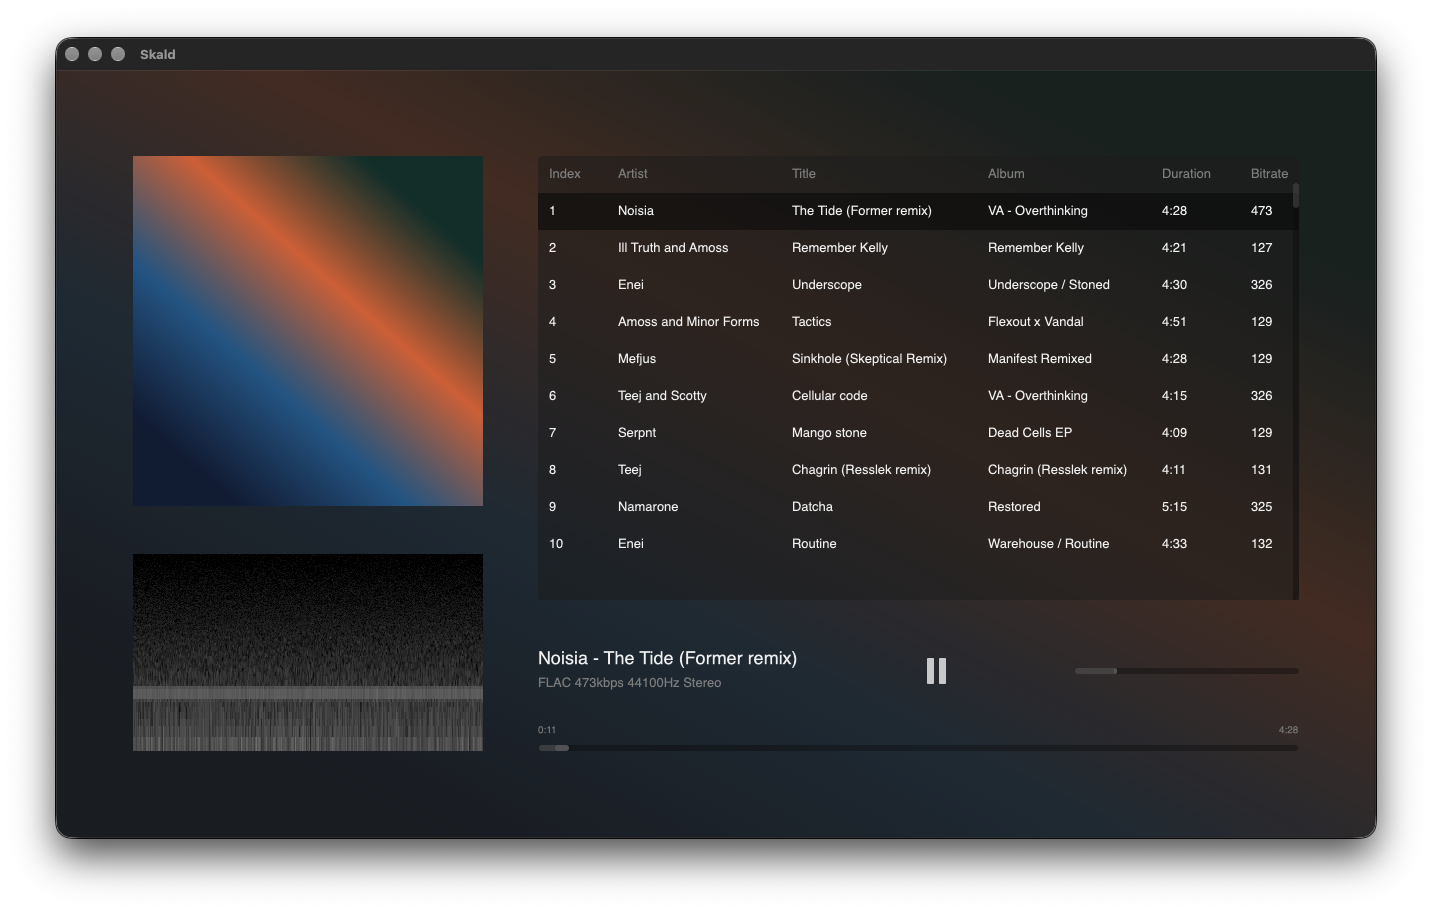
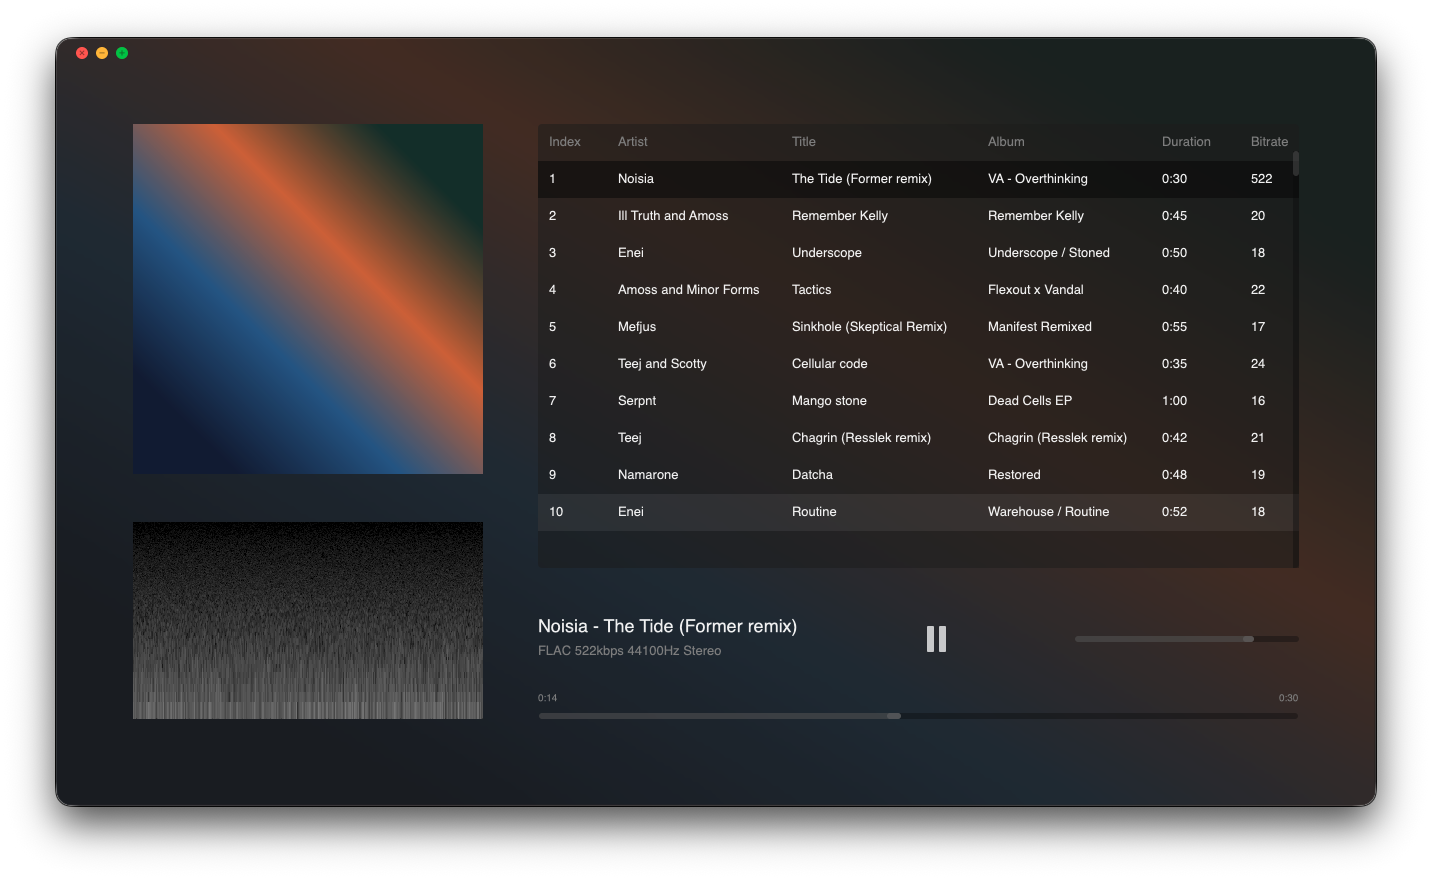
feat(ui): replace the native titlebar with custom window controls

diff --git a/src/ui/titlebar.rs b/src/ui/titlebar.rs
@@ -1,0 +1,133 @@
+//! Custom window chrome: three traffic-light buttons and the drag strip that
+//! replaces the native titlebar.
+//!
+//! The strip occupies the top 30px of the window, inside the design frame's
+//! 86px gutter. Everything except the buttons starts a window drag, exactly
+//! like the OS titlebar used to.
+
+use crate::app::SkaldApp;
+use gpui::prelude::*;
+use gpui::{AnyElement, Context, CursorStyle, MouseButton, Window, div, px, rgb, rgba};
+
+pub const TITLEBAR_HEIGHT: f32 = 30.0;
+const BUTTON_SIZE: f32 = 12.0;
+const BUTTON_LEFT: f32 = 20.0;
+const BUTTON_GAP: f32 = 8.0;
+
+const CLOSE: u32 = 0xFF5F57;
+const MINIMIZE: u32 = 0xFEBC2E;
+const MAXIMIZE: u32 = 0x28C840;
+const GLYPH: u32 = 0x00000066;
+
+impl SkaldApp {
+    pub(crate) fn render_titlebar(&self, cx: &mut Context<Self>) -> AnyElement {
+        div()
+            .absolute()
+            .top_0()
+            .left_0()
+            .w_full()
+            .h(px(TITLEBAR_HEIGHT))
+            .flex()
+            .items_center()
+            .pl(px(BUTTON_LEFT))
+            .gap(px(BUTTON_GAP))
+            .cursor(CursorStyle::OpenHand)
+            .on_mouse_down(
+                MouseButton::Left,
+                cx.listener(|_, _: &gpui::MouseDownEvent, window, cx| {
+                    cx.stop_propagation();
+                    begin_window_move(window);
+                }),
+            )
+            .child(Self::chrome_button(
+                "chrome-close",
+                CLOSE,
+                "×",
+                cx,
+                |this, window, cx| this.close_window(window, cx),
+            ))
+            .child(Self::chrome_button(
+                "chrome-minimize",
+                MINIMIZE,
+                "−",
+                cx,
+                |_, window, _| window.minimize_window(),
+            ))
+            .child(Self::chrome_button(
+                "chrome-maximize",
+                MAXIMIZE,
+                "+",
+                cx,
+                |_, window, _| window.zoom_window(),
+            ))
+            .into_any_element()
+    }
+
+    fn chrome_button(
+        id: &'static str,
+        color: u32,
+        glyph: &'static str,
+        cx: &mut Context<Self>,
+        action: impl Fn(&mut Self, &mut Window, &mut Context<Self>) + 'static,
+    ) -> AnyElement {
+        div()
+            .id(id)
+            .relative()
+            .w(px(BUTTON_SIZE))
+            .h(px(BUTTON_SIZE))
+            .flex_shrink_0()
+            .rounded_full()
+            .bg(rgb(color))
+            .cursor(CursorStyle::PointingHand)
+            .flex()
+            .items_center()
+            .justify_center()
+            .text_size(px(10.))
+            .line_height(px(BUTTON_SIZE))
+            .text_color(rgba(GLYPH))
+            .hover(|style| style.opacity(0.72))
+            .on_mouse_down(
+                MouseButton::Left,
+                cx.listener(|_, _, _, cx| cx.stop_propagation()),
+            )
+            .on_click(cx.listener(move |this, _, window, cx| {
+                cx.stop_propagation();
+                action(this, window, cx);
+            }))
+            .child(glyph)
+            .into_any_element()
+    }
+}
+
+/// Hands the drag to the platform. macOS needs the original mouse-down event;
+/// Linux compositors take over from the current pointer press.
+fn begin_window_move(window: &Window) {
+    #[cfg(target_os = "macos")]
+    {
+        macos::begin_drag();
+        let _ = window;
+    }
+
+    #[cfg(not(target_os = "macos"))]
+    window.start_window_move();
+}
+
+#[cfg(target_os = "macos")]
+mod macos {
+    use objc2::MainThreadMarker;
+    use objc2_app_kit::NSApplication;
+
+    pub fn begin_drag() {
+        let Some(mtm) = MainThreadMarker::new() else {
+            return;
+        };
+        let app = NSApplication::sharedApplication(mtm);
+        let Some(window) = app.keyWindow() else {
+            return;
+        };
+        let Some(event) = app.currentEvent() else {
+            return;
+        };
+        window.performWindowDragWithEvent(&event);
+    }
+}

diff --git a/src/main.rs b/src/main.rs
@@ -16,7 +16,7 @@ use crate::settings::Settings;
 use crate::ui::theme::{FRAME_HEIGHT, FRAME_WIDTH};
 use gpui::{
     App, Application, Bounds, Menu, MenuItem, SystemMenuType, TitlebarOptions, WindowBounds,
-    WindowOptions, point, prelude::*, px, size,
+    WindowDecorations, WindowOptions, point, prelude::*, px, size,
 };
 
 fn main() {
@@ -36,17 +36,24 @@ fn main() {
         cx.on_action(|_: &Quit, cx: &mut App| cx.quit());
 
         let bounds = restored_bounds(cx);
+        #[cfg(target_os = "linux")]
+        let window_decorations = Some(WindowDecorations::Client);
+        #[cfg(not(target_os = "linux"))]
+        let window_decorations: Option<WindowDecorations> = None;
 
         let window = cx
             .open_window(
                 WindowOptions {
                     window_bounds: Some(WindowBounds::Windowed(bounds)),
                     window_min_size: Some(size(px(FRAME_WIDTH), px(FRAME_HEIGHT))),
+                    // The OS titlebar is hidden; `titlebar.rs` draws the three
+                    // buttons and the drag strip in the top 30px of the frame.
                     titlebar: Some(TitlebarOptions {
                         title: Some("Skald".into()),
-                        appears_transparent: false,
-                        traffic_light_position: None,
+                        appears_transparent: true,
+                        traffic_light_position: Some(point(px(-100.), px(14.))),
                     }),
+                    window_decorations,
                     ..Default::default()
                 },
                 |window, cx| {

diff --git a/src/app.rs b/src/app.rs
@@ -626,6 +626,15 @@ impl SkaldApp {
         self.persist_state();
     }
 
+    /// The custom close button: flush exactly like the native close did, then
+    /// remove the window.
+    pub(crate) fn close_window(&mut self, window: &mut Window, cx: &mut Context<Self>) {
+        self.remember_window(window.bounds());
+        self.shutdown();
+        window.remove_window();
+        cx.quit();
+    }
+
     // -------------------------------------------------------------------- tick
 
     fn start_ticker(&mut self, cx: &mut Context<Self>) {
@@ -777,7 +786,7 @@ impl Render for SkaldApp {
             });
         }
 
-        root
+        root.child(self.render_titlebar(cx))
     }
 }
 

diff --git a/src/ui/mod.rs b/src/ui/mod.rs
@@ -7,4 +7,5 @@ pub mod now_playing;
 pub mod shell;
 pub mod sidebar;
 pub mod theme;
+pub mod titlebar;
 pub mod track_list;

diff --git a/wiki/pages/2026-10-28-skald-player.md b/wiki/pages/2026-10-28-skald-player.md
@@ -31,8 +31,8 @@ A new single-crate binary, scaffolded to match `manti-by/sk`:
 - `src/settings/` — `settings.json` and `state.json` schemas, first-run defaults,
   clamping and atomic temp-file-plus-rename writes.
 - `src/ui/` — the shell, sidebar, track list, now-playing row, EQ and About
-  overlays, the add-card empty state, and `theme.rs` as the single source of all
-  design-frame geometry and both palettes.
+  overlays, the add-card empty state, the custom titlebar, and `theme.rs` as the
+  single source of all design-frame geometry and both palettes.
 - `Makefile`, `.github/workflows/{ci,release}.yml`, `.github/scripts/*.sh`,
   `install.sh`, `README.md`, `AGENTS.md`, `wiki/docs/` — the repository and
   release plumbing.
@@ -69,6 +69,11 @@ on macOS, while seeking is covered by the decoder tests.
 - **Fixed 1320×768 minimum.** The design frame is the smallest useful window;
   larger windows stretch the main column while the sidebar and modal sizes stay
   fixed.
+- **Custom window chrome.** The OS titlebar is hidden with
+  `appears_transparent` and the native traffic lights are moved offscreen;
+  `titlebar.rs` draws close/minimize/maximize and owns the top 30px drag strip.
+  macOS hands the original mouse-down event to `performWindowDragWithEvent`;
+  Linux uses `start_window_move` and client-side decorations.
 - **Bundled static Inter instances.** GPUI needs fonts it can load on both
   platforms without relying on system font discovery.
 

diff --git a/AGENTS.md b/AGENTS.md
@@ -35,7 +35,7 @@ created on first run.
 | `src/main.rs` | Process entry: logging, fonts, menu wiring, window creation. |
 | `src/app.rs` | `SkaldApp`, the root view. Owns the playlist, player handle, overlays and persisted state. |
 | `src/actions.rs` | GPUI actions and their key bindings. |
-| `src/ui/` | One module per region of the design frame: `shell`, `track_list`, `sidebar`, `now_playing`, `eq_overlay`, `about_overlay`, `add_overlay`, `theme`. |
+| `src/ui/` | One module per region of the design frame: `shell`, `track_list`, `sidebar`, `now_playing`, `eq_overlay`, `about_overlay`, `add_overlay`, `titlebar`, `theme`. |
 | `src/library/` | Playlist model, recursive directory scan, tag and cover extraction. |
 | `src/player/` | `engine` (cpal output and commands), `decoder` (symphonia), `dsp` (biquad EQ and FFT taps), `spectrum` (waterfall buffer). |
 | `src/settings/` | Paths, JSON schemas, first-run creation and atomic writes. |

diff --git a/README.md b/README.md
@@ -19,6 +19,8 @@ Built with Rust and [GPUI](https://gpui.rs), and runs on macOS and Ubuntu 24.04.
 - Five-band equalizer (±6 dB) with a smooth response curve.
 - Theme follows the current cover: dark covers get the dark palette, light
   covers get the light one.
+- Custom window controls: close, minimize and maximize in the top strip, which
+  also drags the window.
 - Window position, volume, EQ gains, playlist and playback position survive a
   restart.
 
